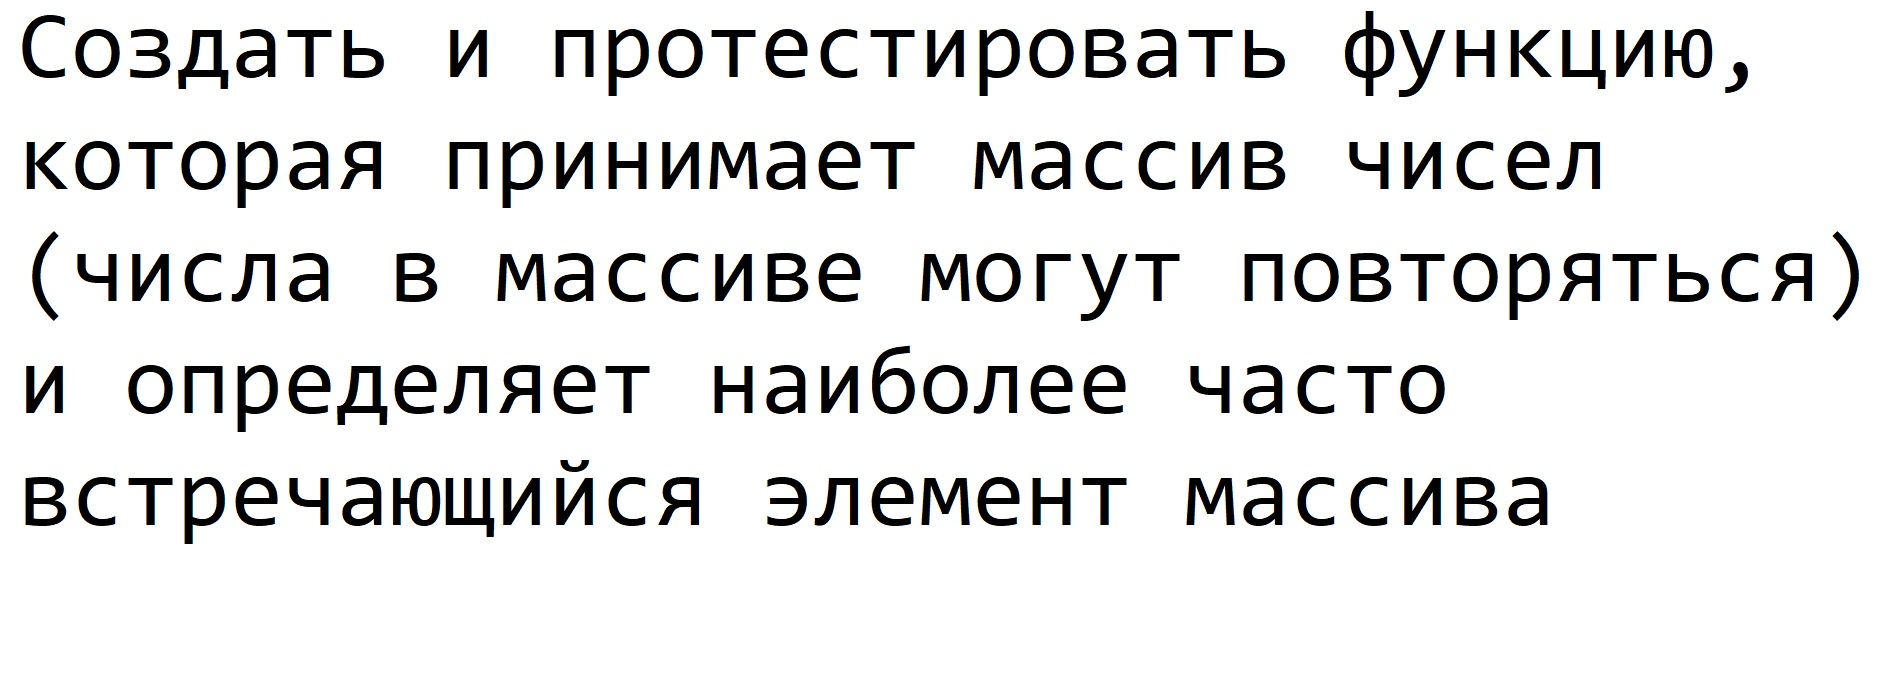
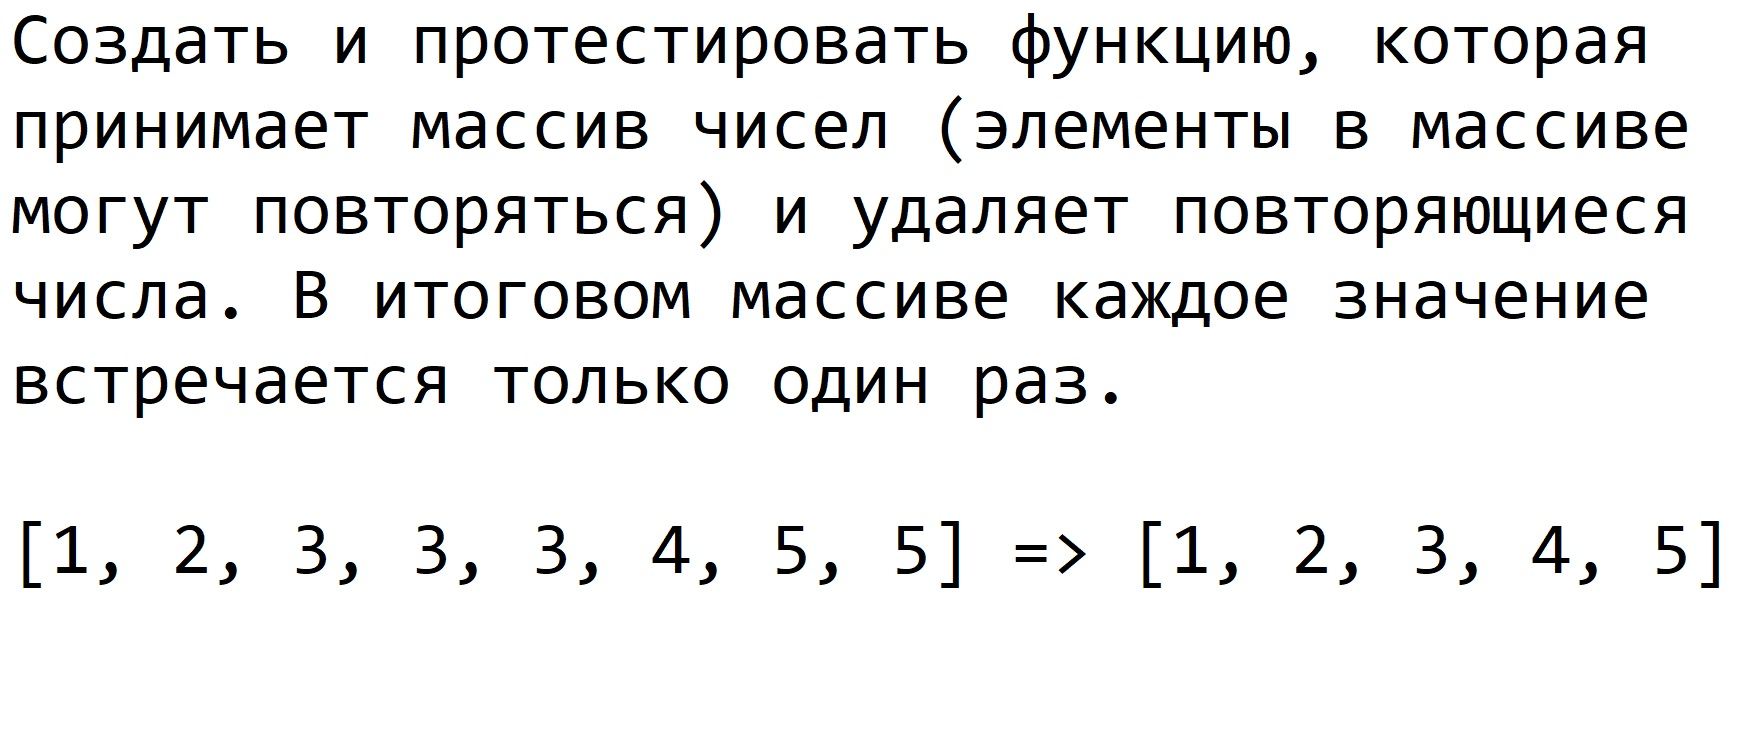
add hw_20_11_2024

diff --git a/hw_20_11_2024.py b/hw_20_11_2024.py
@@ -1,0 +1,30 @@
+# Создать и протестировать функцию, кот. принимает массив чисел (элементы в массиве могут повторяться) и удаляет
+# повторяющиеся числа. В итоговом массиве каждое значение встречается только один раз.
+
+num_list_in = [112, -555, 1000, 155, 112, 112, -555, -1, 0, 22, 22, 22, 8, 8, 8]
+
+
+def set_fun_1(num_list):
+    try:
+        if isinstance(num_list, list) and num_list != []:
+            num_list_sort = sorted(num_list)
+            set_list = [num_list_sort[0]]
+            for i in range(len(num_list_sort) - 1):
+                if num_list_sort[i] != num_list_sort[i + 1]:
+                    set_list.append(num_list_sort[i + 1])
+            return set_list
+    except:
+        return None
+
+
+def set_fun_2(num_list):
+    try:
+        if isinstance(num_list, list) and num_list != []:
+            set_list = set(num_list)
+            return sorted(list(set_list))
+    except:
+        return None
+
+
+# print(set_fun_1(num_list_in))
+# print(set_fun_2(num_list_in))

diff --git a/hw_20_11_2024_test.py b/hw_20_11_2024_test.py
@@ -1,0 +1,30 @@
+# Протестируем функции из файла hw_20_11_2024
+
+import unittest
+import hw_20_11_2024
+
+
+class TestSet(unittest.TestCase):
+    def test_bare_1(self):
+        """Equal None test fun 1"""
+        result = hw_20_11_2024.set_fun_1([])
+        self.assertEqual(result, None)
+
+    def test_bare_2(self):
+        """Equal None test fun 2"""
+        result = hw_20_11_2024.set_fun_2([])
+        self.assertEqual(result, None)
+
+    def test_list_1(self):
+        """Equal test fun 1"""
+        result = hw_20_11_2024.set_fun_1([-5, -5, 0])
+        self.assertEqual(result, [-5, 0])
+
+    def test_list_2(self):
+        """Equal test fun 2"""
+        result = hw_20_11_2024.set_fun_1([-5, -5, 0])
+        self.assertEqual(result, [-5, 0])
+
+
+if __name__ == '__main__':
+    unittest.main()
